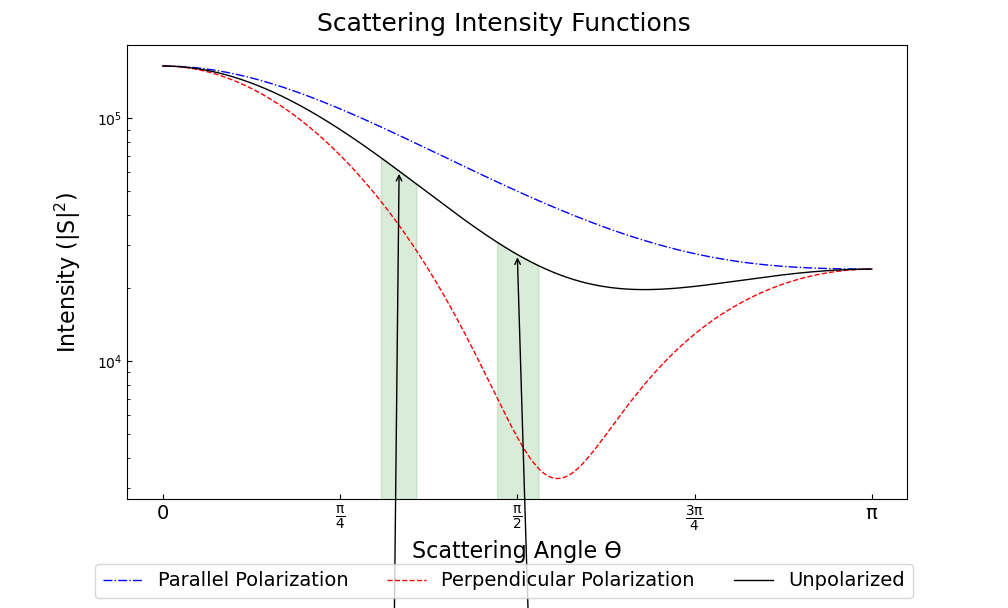
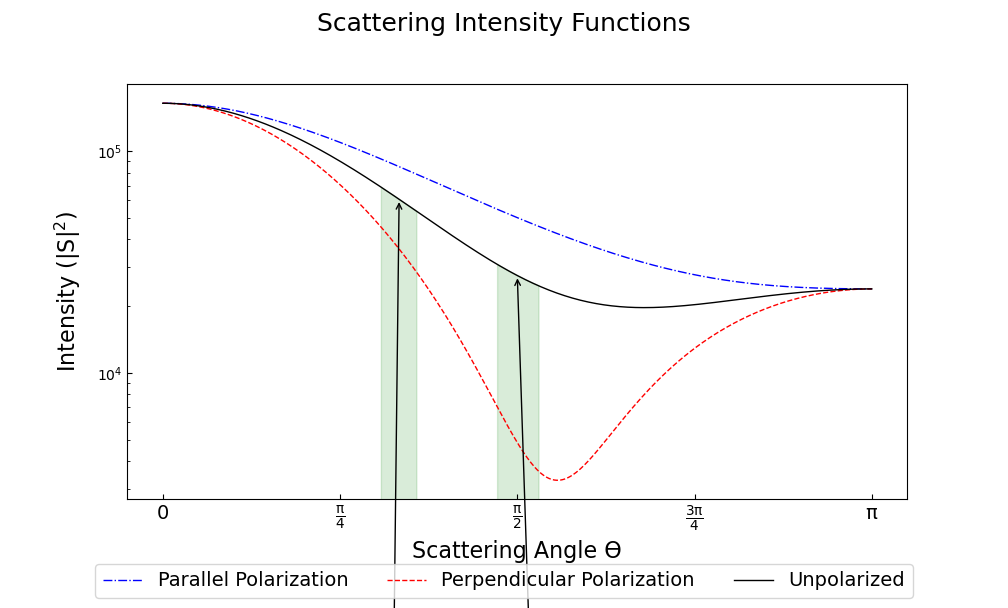
test run

diff --git a/mie_aerosol.py b/mie_aerosol.py
@@ -1,6 +1,13 @@
 import numpy as np
 import matplotlib.pyplot as plt
 import PyMieScatt as ps
+import sys
+import os
+import time
+import glob
+import imageio
+import scipy.constants as cnt
+from optparse import OptionParser
 from scipy.integrate import trapz
 
 """
@@ -11,65 +18,87 @@ We modeled a lognormal distribution of NaCl particles based on laboratory measur
 and then tried to figure out how much light we'd see at various angles.
 """
 
-m = 1.536  # refractive index of NaCl
-wavelength = 405*10**3  # replace with the laser wavelength (nm)
+if __name__ == '__main__':
+    argvs = sys.argv
+    parser = OptionParser()
+    parser.add_option("--dir", dest="dir", default="./")
+    parser.add_option("--file", dest="file", default="plot_prop_mat.txt")
+    parser.add_option("--freq", dest="freq", default=100.0, type="float")
+    parser.add_option("--pxyz", dest="pxyz",
+                      default=[0.0, 0.0, 0.0], type="float", nargs=3)
+    opt, argc = parser.parse_args(argvs)
+    print(opt, argc)
 
-dp_g = 85  # geometric mean diameter - replace with your own (nm)
-# geometric standard deviation - replace with your own (unitless)
-sigma_g = 1.5
-N = 1e5  # total number of particles - replace with your own (cm^-3)
+    # refractive index of NaCl
+    m = 1.536
 
-# Calculate optical properties
-B = ps.Mie_Lognormal(m, wavelength, sigma_g, dp_g, N,returnDistribution=True)  
-S = ps.SF_SD(m, wavelength, B[7], B[8])
+    # replace with the laser wavelength (nm)
+    wavelength = 405
 
-# Make graphs - lots of this is really unnecessary decoration for a pretty graph.
-plt.close('all')
+    # geometric mean diameter - replace with your own (nm)
+    dp_g = 85
 
-fig1 = plt.figure(figsize=(10.08, 6.08))
-ax1 = fig1.add_subplot(1, 1, 1)
+    # geometric standard deviation - replace with your own (unitless)
+    sigma_g = 1.5
 
-ax1.plot(S[0], S[1], 'b', ls='dashdot', lw=1, label="Parallel Polarization")
-ax1.plot(S[0], S[2], 'r', ls='dashed', lw=1,
-         label="Perpendicular Polarization")
-ax1.plot(S[0], S[3], 'k', lw=1, label="Unpolarized")
+    # total number of particles - replace with your own (cm^-3)
+    N = 1e5
 
-x_label = ["0", r"$\mathregular{\frac{\pi}{4}}$", r"$\mathregular{\frac{\pi}{2}}$",
-           r"$\mathregular{\frac{3\pi}{4}}$", r"$\mathregular{\pi}$"]
-x_tick = [0, np.pi / 4, np.pi / 2, 3 * np.pi / 4, np.pi]
-ax1.set_xticks(x_tick)
-ax1.set_xticklabels(x_label, fontsize=14)
-ax1.tick_params(which='both', direction='in')
-ax1.set_xlabel("Scattering Angle ϴ", fontsize=16)
-ax1.set_ylabel(r"Intensity ($\mathregular{|S|^2}$)", fontsize=16, labelpad=10)
-handles, labels = ax1.get_legend_handles_labels()
-fig1.legend(handles, labels, fontsize=14, ncol=3, loc=8)
+    # Calculate optical properties
+    B = ps.Mie_Lognormal(m, wavelength, sigma_g, dp_g, N,
+                         returnDistribution=True)
+    print(B)
+    S = ps.SF_SD(m, wavelength, B[7], B[8])
 
-fig1.suptitle("Scattering Intensity Functions", fontsize=18)
-fig1.show()
-plt.tight_layout(rect=[0.01, 0.05, 0.915, 0.95])
+    # Make graphs - lots of this is really unnecessary decoration for a pretty graph.
+    plt.close('all')
 
-# Highlight certain angles and compute integral
-sixty = [0.96 < x < 1.13 for x in S[0]]
-ninety = [1.48 < x < 1.67 for x in S[0]]
-ax1.fill_between(S[0], 0, S[3], where=sixty, color='g', alpha=0.15)
-ax1.fill_between(S[0], 0, S[3], where=ninety, color='g', alpha=0.15)
-ax1.set_yscale('log')
+    fig1 = plt.figure(figsize=(10.08, 6.08))
+    ax1 = fig1.add_subplot(1, 1, 1)
 
-int_sixty = trapz(S[3][110:130], S[0][110:130])
-int_ninety = trapz(S[3][169:191], S[0][169:191])
+    ax1.plot(S[0], S[1], 'b', ls='dashdot',
+             lw=1, label="Parallel Polarization")
+    ax1.plot(S[0], S[2], 'r', ls='dashed', lw=1,
+             label="Perpendicular Polarization")
+    ax1.plot(S[0], S[3], 'k', lw=1, label="Unpolarized")
 
-# Annotate plot with integral results
-ax1.annotate("Integrated value = {i:1.3f}".format(i=int_sixty),
-             xy=(np.pi / 3, S[3][120]), xycoords='data',
-             xytext=(np.pi / 6, 0.8), textcoords='data',
-             arrowprops=dict(arrowstyle="->",
-                             connectionstyle="arc3"),
-             )
-ax1.annotate("Integrated value = {i:1.3f}".format(i=int_ninety),
-             xy=(np.pi / 2, S[3][180]), xycoords='data',
-             xytext=(2 * np.pi / 5, 2), textcoords='data',
-             arrowprops=dict(arrowstyle="->",
-                             connectionstyle="arc3"),
-             )
-plt.savefig("./mie_aerosol.png")
+    x_label = ["0", r"$\mathregular{\frac{\pi}{4}}$", r"$\mathregular{\frac{\pi}{2}}$",
+               r"$\mathregular{\frac{3\pi}{4}}$", r"$\mathregular{\pi}$"]
+    x_tick = [0, np.pi / 4, np.pi / 2, 3 * np.pi / 4, np.pi]
+    ax1.set_xticks(x_tick)
+    ax1.set_xticklabels(x_label, fontsize=14)
+    ax1.tick_params(which='both', direction='in')
+    ax1.set_xlabel("Scattering Angle ϴ", fontsize=16)
+    ax1.set_ylabel(
+        r"Intensity ($\mathregular{|S|^2}$)", fontsize=16, labelpad=10)
+    handles, labels = ax1.get_legend_handles_labels()
+    fig1.legend(handles, labels, fontsize=14, ncol=3, loc=8)
+
+    fig1.suptitle("Scattering Intensity Functions", fontsize=18)
+    fig1.show()
+    plt.tight_layout(rect=[0.01, 0.05, 0.915, 0.95])
+
+    # Highlight certain angles and compute integral
+    sixty = [0.96 < x < 1.13 for x in S[0]]
+    ninety = [1.48 < x < 1.67 for x in S[0]]
+    ax1.fill_between(S[0], 0, S[3], where=sixty, color='g', alpha=0.15)
+    ax1.fill_between(S[0], 0, S[3], where=ninety, color='g', alpha=0.15)
+    ax1.set_yscale('log')
+
+    int_sixty = trapz(S[3][110:130], S[0][110:130])
+    int_ninety = trapz(S[3][169:191], S[0][169:191])
+
+    # Annotate plot with integral results
+    ax1.annotate("Integrated value = {i:1.3f}".format(i=int_sixty),
+                 xy=(np.pi / 3, S[3][120]), xycoords='data',
+                 xytext=(np.pi / 6, 0.8), textcoords='data',
+                 arrowprops=dict(arrowstyle="->",
+                                 connectionstyle="arc3"),
+                 )
+    ax1.annotate("Integrated value = {i:1.3f}".format(i=int_ninety),
+                 xy=(np.pi / 2, S[3][180]), xycoords='data',
+                 xytext=(2 * np.pi / 5, 2), textcoords='data',
+                 arrowprops=dict(arrowstyle="->",
+                                 connectionstyle="arc3"),
+                 )
+    plt.savefig("./mie_aerosol.png")

diff --git a/polarize_snell.py b/polarize_snell.py
@@ -4,7 +4,7 @@ import scipy as sp
 import matplotlib as mpl
 import scipy.constants as cnt
 
-from base import pol_plot
+from src.base import pol_plot
 from material import mat_refract
 
 freq = 170.0 * 10**(3 * 3)  # Hz
